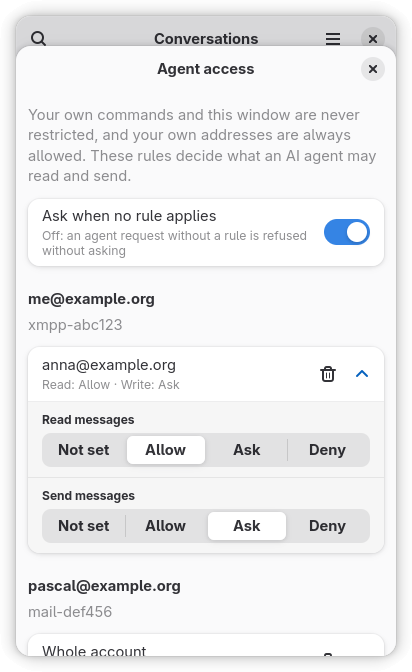
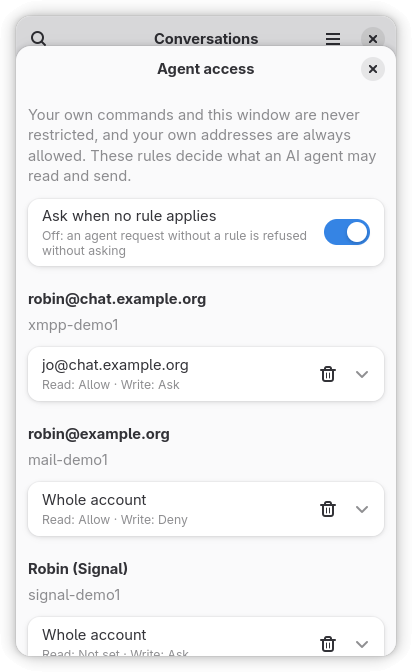
docs: demo rules for the access screenshots

diff --git a/app/scripts/demo-index.ts b/app/scripts/demo-index.ts
@@ -1,6 +1,6 @@
 /**
  * Writes a synthetic index for screenshots: `node --experimental-strip-types app/scripts/demo-index.ts <dir>`
- * creates `<dir>/index.db` and an empty `<dir>/config.json`. Then run the window with
+ * creates `<dir>/index.db` and `<dir>/config.json` with a few agent-access rules. Then run the window with
  * `CURLEW_DB_PATH=<dir>/index.db CURLEW_CONFIG=<dir>/config.json` under `scripts/headless-run`.
  * Every name and address here is made up (`example.org`); never point this at a real index.
  */
@@ -15,7 +15,18 @@ if (!dir) {
   process.exit(2);
 }
 mkdirSync(dir, { recursive: true });
-writeFileSync(join(dir, 'config.json'), '{}\n');
+// A few agent-access rules, so the dialog shows a contact rule and a whole-account rule.
+const config = {
+  agentAccess: {
+    askWithoutRule: true,
+    rules: [
+      { account: 'xmpp-demo1', contact: 'jo@chat.example.org', read: 'allow', write: 'ask' },
+      { account: 'mail-demo1', read: 'allow', write: 'deny' },
+      { account: 'signal-demo1', write: 'ask' },
+    ],
+  },
+};
+writeFileSync(join(dir, 'config.json'), `${JSON.stringify(config, null, 2)}\n`);
 
 const ACCOUNTS: Array<[id: string, identity: string]> = [
   ['mail-demo1', 'robin@example.org'],
